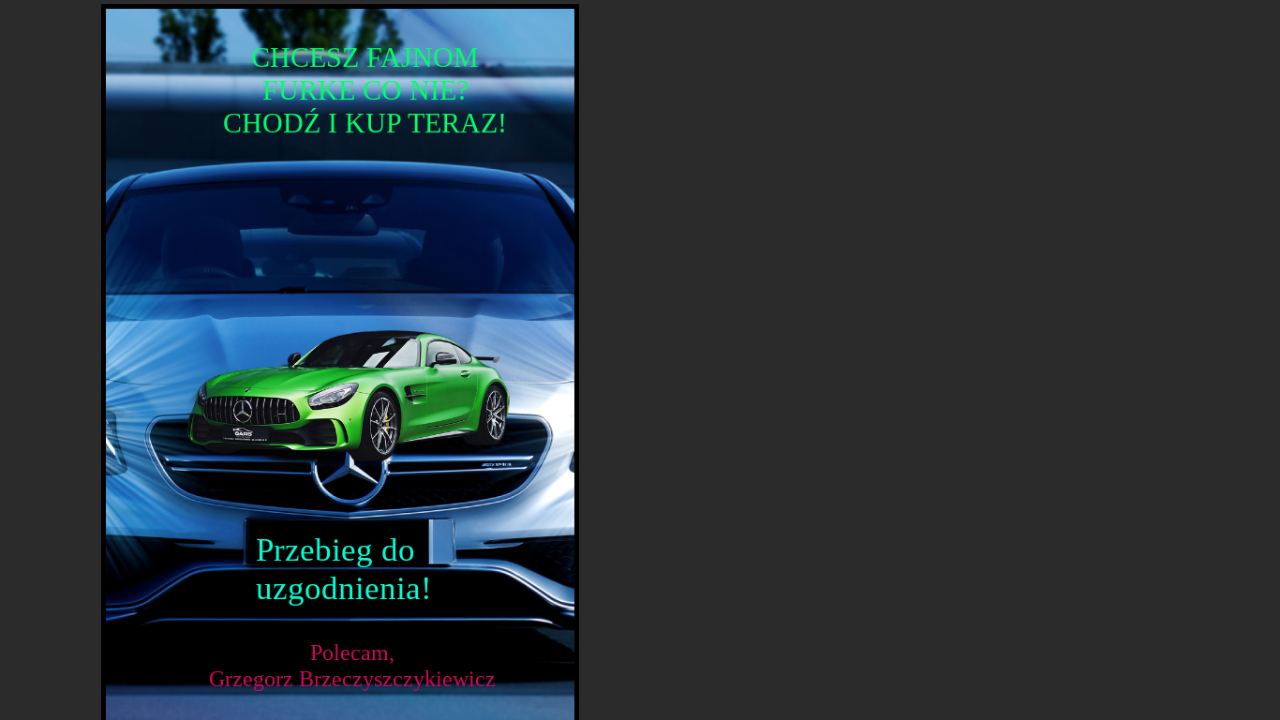
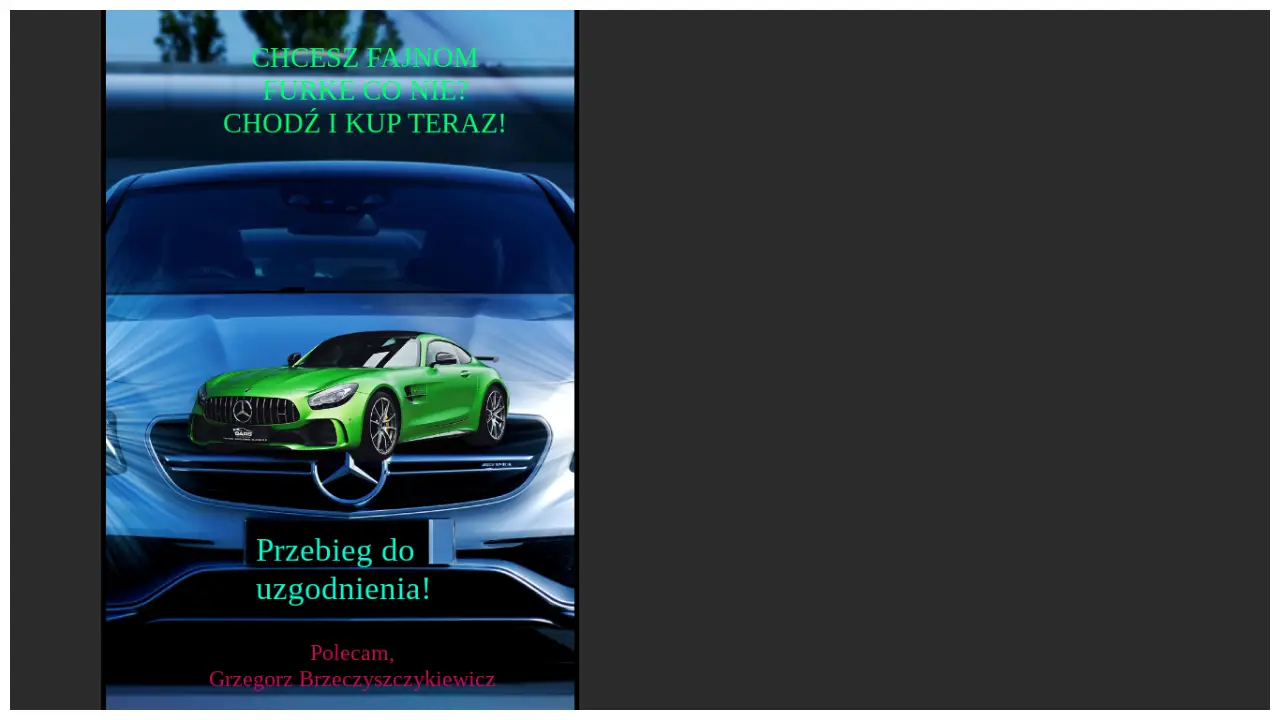
230905

Changed region(s): [[0.0, 0.0, 1.0, 1.0], [0.1875, 0.0611, 0.4062, 0.1833], [0.1875, 0.7333, 0.3438, 0.8556]]

diff --git a/index.html b/index.html
@@ -24,18 +24,27 @@
 <h3> &#169; rotkiW285</h3>
 </div>
 
+
+
+
+
+
+
+
+
+
+
  <div class="gallery">
     <a target="_blank" href="sp/230907/index.html">
     <img src="img/230907.webp" loading="lazy"></a>
     <p>07.09.23 - Strona responsywna</p>
     <p><a href="zip/230907.zip" download>Pobierz</a></p></div>   
 
- <!-- <div class="gallery">
+ <div class="gallery">
     <a target="_blank" href="sp/230905/index.html">
-    <img src="img/test.webp" loading="lazy"></a>
+    <img src="img/230905.webp" loading="lazy"></a>
     <p>05.09.23 - Pierwsze kroki w JS</p>
-    <p><a href="zip/230905.zip" download>Pobierz</a></p></div>     -->
-    <!-- SKOPIOWAC Z PENDRIVE I POMIENIC WSZYSTKO -->
+    <p><a href="zip/230905.zip" download>Pobierz</a></p></div>    
 
 </body>
 </html>

diff --git a/sp/230905/script.js b/sp/230905/script.js
@@ -1,0 +1,24 @@
+// document.write("Siema Eniu!")
+// var imie=prompt("Jak masz na imię?")
+// document.write("Witaj ", imie)
+
+
+
+// var liczba=parseInt(prompt("Podaj pierwszą liczbę"));
+// var liczba2=parseInt(prompt("Podaj drugą liczbę"));
+// document.write(liczba + liczba2);
+
+
+
+
+// var kw=parseInt(prompt("Podaj bok kwadratu"));
+// document.write("Obwód = ", 4 * kw, "<br>");
+// document.write("Pole = ", kw * kw);
+
+
+var wiek=parseInt(prompt("Jaki jesteś rocznik?"));
+document.write("Masz ", 2023-wiek, " lat", "<br>");
+
+
+
+// % reszta z dzielenia, dzielenie modulo

diff --git a/sp/230905/index.html b/sp/230905/index.html
@@ -3,10 +3,9 @@
 <head>
     <meta charset="UTF-8">
     <meta name="viewport" content="width=device-width, initial-scale=1.0">
-    <title>050923</title>
-    <script>
-        document.write("Ema eniu")
-    </script>
+    <title>05.09.2023</title>
+    <script type="text/javascript" src="script.js"></script>
+    <link rel="stylesheet" href="style.css">
 </head>
 <body>
     

diff --git a/sp/230905/style.css b/sp/230905/style.css
@@ -1,0 +1,9 @@
+html{
+    background-color: #2b2b2b;
+    color: white;
+    align-items: center;
+    text-align: center;
+    font-size: 90pt;
+    padding: 30px;
+    font-family: 'Lucida Sans', 'Lucida Sans Regular', 'Lucida Grande', 'Lucida Sans Unicode', Geneva, Verdana, sans-serif;
+}
